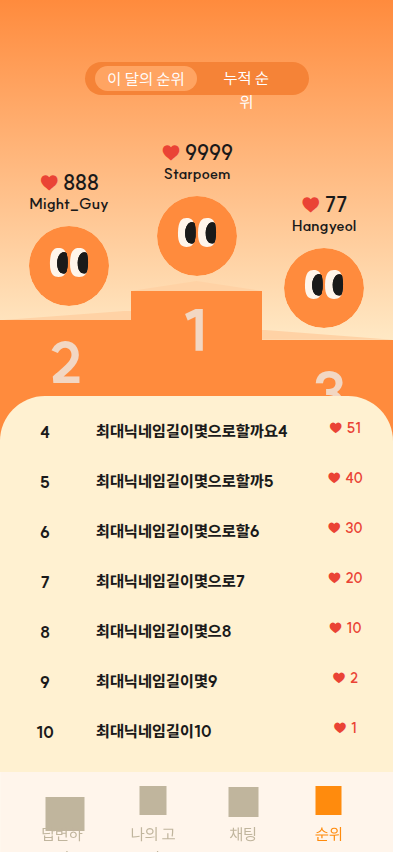
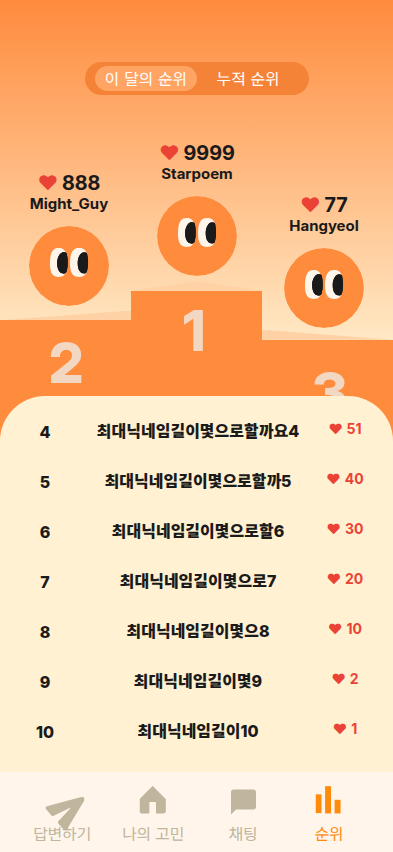
bottom abr and ranking fix 3

diff --git a/src/index.css b/src/index.css
@@ -1,6 +1,30 @@
 @import url("https://cdn.jsdelivr.net/gh/sunn-us/SUIT/fonts/variable/woff2/SUIT-Variable.css");
 @import "tailwindcss";
 
+@font-face {
+  font-family: "Qling Figma Inter";
+  src: url("/fonts/inter/Inter-opsz-wght.ttf") format("truetype");
+  font-weight: 100 900;
+  font-style: normal;
+  font-display: block;
+}
+
+@font-face {
+  font-family: "Qling Noto Sans KR";
+  src: url("/fonts/noto-sans-kr/NotoSansKR-wght.ttf") format("truetype");
+  font-weight: 100 699;
+  font-style: normal;
+  font-display: block;
+}
+
+@font-face {
+  font-family: "Qling Noto Sans KR Black";
+  src: url("/fonts/noto-sans-kr/NotoSansKR-wght.ttf") format("truetype");
+  font-weight: 900;
+  font-style: normal;
+  font-display: block;
+}
+
 @theme {
   --font-sans: "SUIT Variable", "SUIT", ui-sans-serif, system-ui, -apple-system, BlinkMacSystemFont, "Segoe UI", sans-serif;
   --font-serif: "SUIT Variable", "SUIT", ui-sans-serif, system-ui, sans-serif;
@@ -136,4 +160,13 @@ button,
 textarea,
 input {
   font: inherit;
+}
+
+.qling-figma-font {
+  font-family: "Qling Figma Inter", "Qling Noto Sans KR", sans-serif;
+  font-synthesis: none;
+}
+
+.qling-figma-font-strong {
+  font-family: "Qling Figma Inter", "Qling Noto Sans KR Black", "Qling Noto Sans KR", sans-serif;
 }

diff --git a/src/screens/ranking/RankingScreen.tsx b/src/screens/ranking/RankingScreen.tsx
@@ -38,7 +38,7 @@ export function RankingScreen(props: RankingScreenProps) {
   return (
     <section
       aria-label="순위"
-      className="-mx-[var(--qling-space-shell-x)] -mt-6 min-h-[calc(100dvh-var(--qling-space-nav-height))] overflow-hidden bg-[#fff1d1]"
+      className="-mx-[var(--qling-space-shell-x)] -mt-6 min-h-[calc(100dvh-var(--qling-space-nav-height))] overflow-hidden bg-[#fff1d1] qling-figma-font"
     >
       <div
         className="relative mx-auto min-h-[772px] w-[393px] bg-[#fff1d1]"
@@ -123,11 +123,11 @@ function TopRank({
       style={{ left: leftByPlace[place] }}
       data-measure={`ranking-top-${place}`}
     >
-      <div className="h-6 text-[20px] font-bold leading-6">
+      <div className="h-6 text-[20px] font-bold leading-6 qling-figma-font-strong">
         <span className="mr-1 text-[#ea4335]">♥</span>
         {entry.heartCount}
       </div>
-      <div className="h-[18px] truncate text-[15px] font-bold leading-[18px]">{entry.nickname}</div>
+      <div className="h-[18px] truncate text-[15px] font-bold leading-[18px] qling-figma-font-strong">{entry.nickname}</div>
       <img
         src={defaultProfileUrl}
         alt=""
@@ -147,9 +147,9 @@ function Podium() {
       <div className="absolute left-0 top-[29.6px] h-[9.66px] w-[calc(100%*131/393)] bg-[#ffd2a5] [clip-path:polygon(0_100%,100%_0,100%_100%,0_100%)]" />
       <div className="absolute top-0 h-[9.98px] w-[calc(100%*131/393)] bg-[#ffd2a5] [clip-path:polygon(0_100%,50%_0,100%_100%,0_100%)]" style={{ left: 'calc(100% * 131 / 393)' }} />
       <div className="absolute top-[48.75px] h-[10.08px] w-[calc(100%*131/393)] bg-[#ffd2a5] [clip-path:polygon(0_0,100%_100%,0_100%)]" style={{ left: 'calc(100% * 262 / 393)' }} />
-      <span className="absolute top-[50px] text-[56px] font-extrabold leading-[64px] text-[#f2d7c3]" style={{ left: 'calc(100% * 49 / 393)' }}>2</span>
-      <span className="absolute top-[18px] text-[56px] font-extrabold leading-[64px] text-[#f2d7c3]" style={{ left: 'calc(100% * 183 / 393)' }}>1</span>
-      <span className="absolute top-[80px] text-[56px] font-extrabold leading-[64px] text-[#f2d7c3]" style={{ left: 'calc(100% * 312 / 393)' }}>3</span>
+      <span className="absolute top-[50px] text-[56px] font-extrabold leading-[64px] text-[#f2d7c3] qling-figma-font-strong" style={{ left: 'calc(100% * 49 / 393)' }}>2</span>
+      <span className="absolute top-[18px] text-[56px] font-extrabold leading-[64px] text-[#f2d7c3] qling-figma-font-strong" style={{ left: 'calc(100% * 183 / 393)' }}>1</span>
+      <span className="absolute top-[80px] text-[56px] font-extrabold leading-[64px] text-[#f2d7c3] qling-figma-font-strong" style={{ left: 'calc(100% * 312 / 393)' }}>3</span>
     </div>
   );
 }
@@ -172,13 +172,13 @@ function RankingRows({ entries }: { readonly entries: readonly RankingDisplayEnt
           className="absolute left-0 h-[33px] w-full text-[#1a1a1a]"
           style={{ top: `${index * 50}px` }}
         >
-          <span className="absolute top-0 w-[26px] text-center text-[16px] font-extrabold leading-[30px]" style={{ left: 'calc(100% * 32 / 393)' }} data-measure={`ranking-row-${entry.rank}-rank`}>
+          <span className="absolute top-0 w-[26px] text-center text-[16px] font-extrabold leading-[30px] qling-figma-font-strong" style={{ left: 'calc(100% * 32 / 393)' }} data-measure={`ranking-row-${entry.rank}-rank`}>
             {entry.rank}
           </span>
-          <span className="absolute top-0 w-[204px] truncate text-center text-[16px] font-extrabold leading-7" style={{ left: 'calc(100% * 96 / 393)' }} data-measure={`ranking-row-${entry.rank}-nickname`}>
+          <span className="absolute top-0 w-[204px] truncate text-center text-[16px] font-extrabold leading-7 qling-figma-font-strong" style={{ left: 'calc(100% * 96 / 393)' }} data-measure={`ranking-row-${entry.rank}-nickname`}>
             {entry.nickname || '-'}
           </span>
-          <span className="absolute top-[3px] w-20 text-center text-[14px] font-bold leading-[17px] text-[#ea4335]" style={{ left: 'calc(100% * 305 / 393)' }} data-measure={`ranking-row-${entry.rank}-heart`}>
+          <span className="absolute top-[3px] w-20 text-center text-[14px] font-bold leading-[17px] text-[#ea4335] qling-figma-font-strong" style={{ left: 'calc(100% * 305 / 393)' }} data-measure={`ranking-row-${entry.rank}-heart`}>
             <span className="mr-1">♥</span>
             {entry.heartCount}
           </span>

diff --git a/src/screens/shared/ui.tsx b/src/screens/shared/ui.tsx
@@ -103,7 +103,7 @@ export function BottomNavigation({
   return (
     <nav
       aria-label="주요 화면"
-      className="fixed bottom-0 left-1/2 z-50 h-[80px] w-[393px] -translate-x-1/2 bg-[#fff5eb]"
+      className="fixed bottom-0 left-1/2 z-50 h-[80px] w-[393px] -translate-x-1/2 bg-[#fff5eb] qling-figma-font"
       style={{ paddingBottom: 'var(--qling-space-safe-bottom)' }}
     >
       <div className="relative mx-auto h-full w-[393px]" data-measure="bottom-nav-frame">
@@ -178,7 +178,7 @@ function BottomNavAssetIcon({
 function BottomNavSvgIcon({ icon }: { readonly icon: 'reply' | 'myConcerns' | 'chat' | 'ranking' }) {
   if (icon === 'reply') {
     return (
-      <svg className="h-full w-full" viewBox="0 0 31 26" fill="none" xmlns="http://www.w3.org/2000/svg">
+      <svg className="h-full w-full" viewBox="0 0 31 26" fill="none" xmlns="http://www.w3.org/2000/svg" preserveAspectRatio="none">
         <path d="M28.4689 0.0603283L28.4585 0.0627546L1.06171 6.95878C0.830747 7.0162 0.619733 7.12377 0.447539 7.27187C0.275344 7.41998 0.147341 7.604 0.0749785 7.80746C-0.0034132 8.02027 -0.0210207 8.2474 0.0237401 8.46845C0.0685009 8.68949 0.174226 8.89749 0.331402 9.07375L4.69503 13.9558C4.9103 14.1965 5.21268 14.3633 5.55006 14.4275C5.88744 14.4917 6.23867 14.4492 6.54323 14.3074L19.4231 8.23901C19.4739 8.21535 19.5325 8.20826 19.5887 8.21896C19.645 8.22966 19.6954 8.25749 19.7313 8.29763C19.7672 8.33778 19.7863 8.38773 19.7853 8.43886C19.7843 8.49 19.7633 8.53911 19.7259 8.57773L10.1643 18.3579C9.94009 18.5894 9.81402 18.8837 9.80787 19.1903C9.80171 19.4968 9.91584 19.7963 10.1306 20.0372L14.495 24.9201C14.6452 25.0883 14.8397 25.221 15.0611 25.3062C15.2825 25.3915 15.5239 25.4265 15.7636 25.4083C16.0526 25.3872 16.3277 25.2907 16.5545 25.1309C16.7119 25.0196 16.8426 24.8812 16.9388 24.7239L30.728 2.60457L30.7337 2.59423C30.9155 2.29218 30.9934 1.94879 30.958 1.60651C30.9225 1.26423 30.7752 0.938099 30.5341 0.668459C30.2931 0.398819 29.9691 0.197503 29.602 0.0894169C29.2349 -0.0186693 28.841 -0.0287828 28.4689 0.0603283Z" fill="currentColor" />
       </svg>
     );